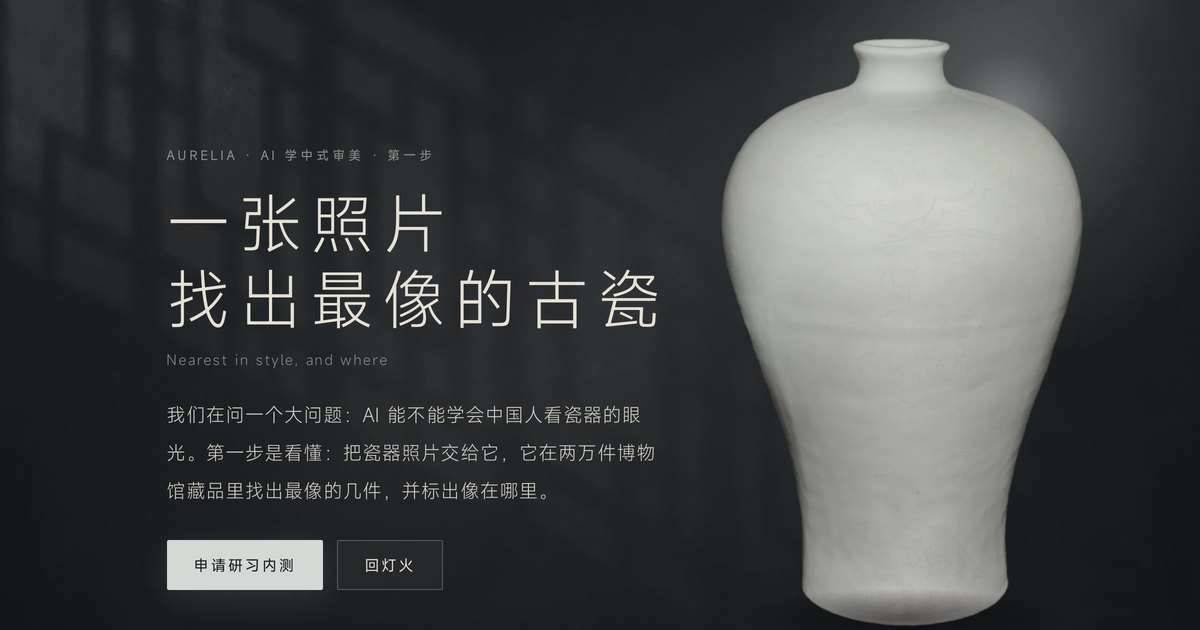
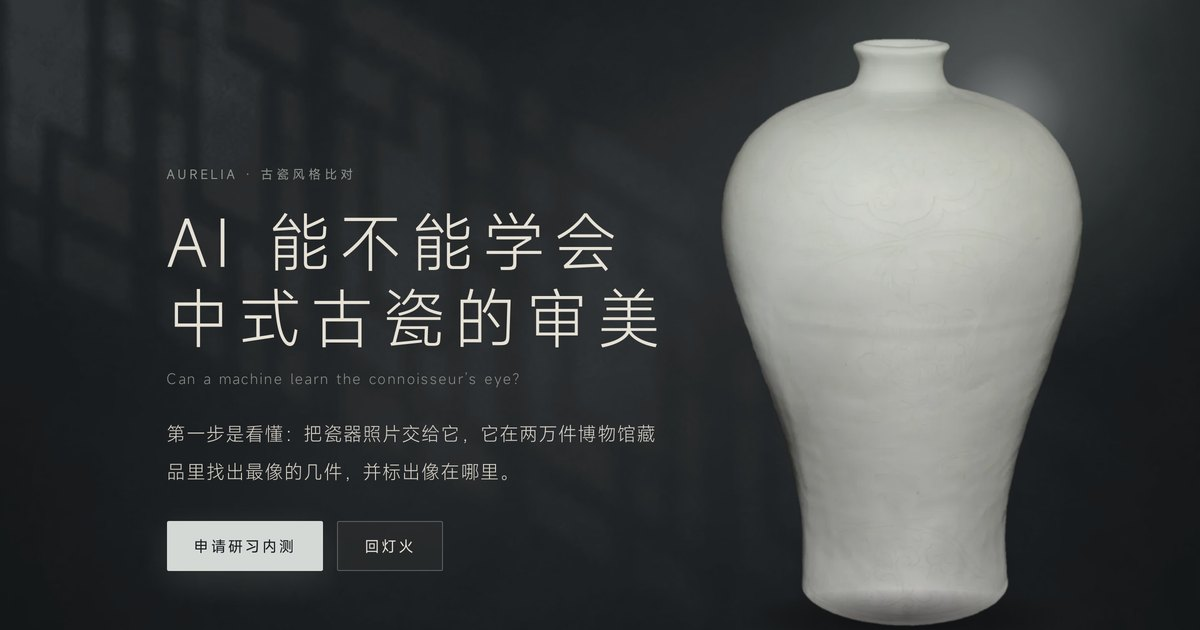
feat(aurelia): hero asks the question; the concrete function moves to the sub-line

Changed region(s): [[0.1233, 0.2413, 0.555, 0.6032], [0.1233, 0.6333, 0.555, 0.9349], [0.1542, 0.2413, 0.185, 0.3016]]

diff --git a/site/vibecoding/aurelia/index.html b/site/vibecoding/aurelia/index.html
@@ -3,11 +3,11 @@
 <head>
 <meta charset="utf-8">
 <meta name="viewport" content="width=device-width, initial-scale=1, viewport-fit=cover">
-<title>Aurelia · AI 学中式审美，第一步：一张照片找出最像的古瓷</title>
+<title>Aurelia · AI 能不能学会中式古瓷的审美</title>
 <meta name="description" content="把瓷器照片交给它，它在两万件博物馆藏品里找出最像的几件，并标出像在哪里。研习用途，邀请内测">
 <meta name="theme-color" content="#121619">
 <meta property="og:type" content="website">
-<meta property="og:title" content="Aurelia · 一张照片，找出最像的古瓷">
+<meta property="og:title" content="Aurelia · AI 能不能学会中式古瓷的审美">
 <meta property="og:description" content="把瓷器照片交给它，它在两万件博物馆藏品里找出最像的几件，并标出像在哪里">
 <meta property="og:url" content="https://kesixu.com/vibecoding/aurelia/">
 <meta property="og:image" content="https://kesixu.com/vibecoding/aurelia/media/og.jpg">
@@ -16,7 +16,7 @@
 <link rel="preload" as="font" type="font/woff2" href="fonts/sans-300-aurelia.woff2" crossorigin>
 <link rel="preload" as="font" type="font/woff2" href="fonts/sans-400-aurelia.woff2" crossorigin>
 <link rel="preload" as="image" href="media/vessels/cma_140168-900.webp" imagesrcset="media/vessels/cma_140168-900.webp 900w, media/vessels/cma_140168-1400.webp 1400w" imagesizes="(min-width:900px) 40vw, 78vw">
-<link rel="stylesheet" href="aurelia.css?v=14">
+<link rel="stylesheet" href="aurelia.css?v=15">
 </head>
 <body>
 <a class="au-skip" href="#main">跳到内容</a>
@@ -40,10 +40,10 @@
 <section class="au-s au-s1" id="s1" aria-label="开卷">
   <div class="au-wrap au-hero">
     <div class="au-hero__text">
-      <p class="au-eyebrow au-intro">Aurelia · AI 学中式审美 · 第一步</p>
-      <h1 class="au-h1 au-intro">一张照片<br><span class="au-nw">找出最像的古瓷</span></h1>
-      <p class="au-echo au-intro">Nearest in style, and where</p>
-      <p class="au-lede au-intro">我们在问一个大问题：AI 能不能学会中国人看瓷器的眼光。第一步是看懂：把瓷器照片交给它，它在两万件博物馆藏品里找出最像的几件，并标出像在哪里。</p>
+      <p class="au-eyebrow au-intro">Aurelia · 古瓷风格比对</p>
+      <h1 class="au-h1 au-intro">AI 能不能学会<br><span class="au-nw">中式古瓷的审美</span></h1>
+      <p class="au-echo au-intro">Can a machine learn the connoisseur’s eye?</p>
+      <p class="au-lede au-intro">第一步是看懂：把瓷器照片交给它，它在两万件博物馆藏品里找出最像的几件，并标出像在哪里。</p>
       <div class="au-cta au-intro">
         <a class="au-btn au-btn--moon" href="mailto:email@kesixu.com?subject=Aurelia%20%E7%A0%94%E4%B9%A0%E5%86%85%E6%B5%8B%E7%94%B3%E8%AF%B7">申请研习内测</a>
         <a class="au-btn" href="/vibecoding/">回灯火</a>

diff --git a/tools/aurelia/build_html.py b/tools/aurelia/build_html.py
@@ -55,11 +55,11 @@ html = f'''<!DOCTYPE html>
 <head>
 <meta charset="utf-8">
 <meta name="viewport" content="width=device-width, initial-scale=1, viewport-fit=cover">
-<title>Aurelia · AI 学中式审美，第一步：一张照片找出最像的古瓷</title>
+<title>Aurelia · AI 能不能学会中式古瓷的审美</title>
 <meta name="description" content="把瓷器照片交给它，它在两万件博物馆藏品里找出最像的几件，并标出像在哪里。研习用途，邀请内测">
 <meta name="theme-color" content="#121619">
 <meta property="og:type" content="website">
-<meta property="og:title" content="Aurelia · 一张照片，找出最像的古瓷">
+<meta property="og:title" content="Aurelia · AI 能不能学会中式古瓷的审美">
 <meta property="og:description" content="把瓷器照片交给它，它在两万件博物馆藏品里找出最像的几件，并标出像在哪里">
 <meta property="og:url" content="https://kesixu.com/vibecoding/aurelia/">
 <meta property="og:image" content="https://kesixu.com/vibecoding/aurelia/media/og.jpg">
@@ -68,7 +68,7 @@ html = f'''<!DOCTYPE html>
 <link rel="preload" as="font" type="font/woff2" href="fonts/sans-300-aurelia.woff2" crossorigin>
 <link rel="preload" as="font" type="font/woff2" href="fonts/sans-400-aurelia.woff2" crossorigin>
 <link rel="preload" as="image" href="media/vessels/cma_140168-900.webp" imagesrcset="media/vessels/cma_140168-900.webp 900w, media/vessels/cma_140168-1400.webp 1400w" imagesizes="(min-width:900px) 40vw, 78vw">
-<link rel="stylesheet" href="aurelia.css?v=14">
+<link rel="stylesheet" href="aurelia.css?v=15">
 </head>
 <body>
 <a class="au-skip" href="#main">跳到内容</a>
@@ -92,10 +92,10 @@ html = f'''<!DOCTYPE html>
 <section class="au-s au-s1" id="s1" aria-label="开卷">
   <div class="au-wrap au-hero">
     <div class="au-hero__text">
-      <p class="au-eyebrow au-intro">Aurelia · AI 学中式审美 · 第一步</p>
-      <h1 class="au-h1 au-intro">一张照片<br><span class="au-nw">找出最像的古瓷</span></h1>
-      <p class="au-echo au-intro">Nearest in style, and where</p>
-      <p class="au-lede au-intro">我们在问一个大问题：AI 能不能学会中国人看瓷器的眼光。第一步是看懂：把瓷器照片交给它，它在两万件博物馆藏品里找出最像的几件，并标出像在哪里。</p>
+      <p class="au-eyebrow au-intro">Aurelia · 古瓷风格比对</p>
+      <h1 class="au-h1 au-intro">AI 能不能学会<br><span class="au-nw">中式古瓷的审美</span></h1>
+      <p class="au-echo au-intro">Can a machine learn the connoisseur’s eye?</p>
+      <p class="au-lede au-intro">第一步是看懂：把瓷器照片交给它，它在两万件博物馆藏品里找出最像的几件，并标出像在哪里。</p>
       <div class="au-cta au-intro">
         <a class="au-btn au-btn--moon" href="{S_MAIN}">申请研习内测</a>
         <a class="au-btn" href="/vibecoding/">回灯火</a>
